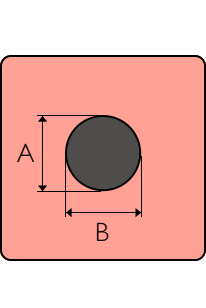
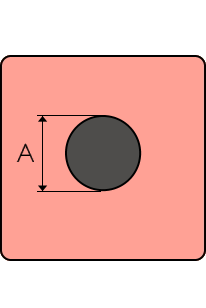
feat(profile-fields): profil başına A/B/S alanları (toplantı madde 22)
Lama A,B · boş kare A,S · boş dikdörtgen A,B,S · boş boru A,S · köşebent A,S ·
iki kollu köşebent A,B,S · dolu boru A · dolu kare A · IPN/HEB/UPN/T A,S.
Görünmeyen alan ekranda çıkmaz ve "0" tutulur (kontrol + kayıt + AI sorgusu değişmeden
çalışır). A/B/S ölçü görselleri yeni listeye göre yeniden üretildi.

Claude-Session: https://claude.ai/code/session_01Uvk3jDBtePorYdYPvnYHq8

Changed region(s): [[0.2913, 0.4968, 0.699, 0.789]]

diff --git a/client/desktop/src/renderer/constants/profileFields.ts b/client/desktop/src/renderer/constants/profileFields.ts
@@ -1,0 +1,50 @@
+// Profil başına ölçü alanları (07.10.2026 toplantısı, madde 22).
+// Görünmeyen alan ekranda çıkmaz ve 0 gönderilir ("bu profilde yok").
+// Backend hesabı sadece A'yı kullanır (piston hedefi R2 = Rarc − A − Rk, stage seçimi);
+// B ve S sadece kayıt + AI eşleştirme içindir — 0 kabul edilir.
+
+import { useBendingJobStore, type BendingProfileId } from '@/store/bendingJobStore'
+
+export type ProfileFieldKey = 'A' | 'B' | 'S'
+
+export const PROFILE_FIELDS: Record<BendingProfileId, ProfileFieldKey[]> = {
+  'i-single': ['A', 'B'],            // lama — 80 = A kenarı, 20 = B kenarı
+  'square-out': ['A', 'S'],          // boş kare
+  'square-in': ['A', 'B', 'S'],      // boş dikdörtgen
+  circle: ['A', 'S'],                // boş boru
+  'l-right': ['A', 'S'],             // köşebent
+  'l-left': ['A', 'B', 'S'],         // iki kollu köşebent (seçim ekranında en sağ alt)
+  'circle-filled': ['A'],            // dolu boru
+  'square-filled': ['A'],            // dolu kare
+  'i-bar': ['A', 'S'],               // IPN
+  'h-bar': ['A', 'S'],               // HEB
+  'c-channel': ['A', 'S'],           // UPN
+  't-bar': ['A', 'S'],               // T profil
+}
+
+const ALL: ProfileFieldKey[] = ['A', 'B', 'S']
+
+/** Seçili profilin görünen A/B/S alanları (profil seçilmemişse hepsi). */
+export function useVisibleProfileFields(): ProfileFieldKey[] {
+  const profileId = useBendingJobStore((s) => s.params.profileId)
+  return profileId ? PROFILE_FIELDS[profileId] : ALL
+}
+
+/** Görünmeyen A/B/S alanlarını "0" yapar — kontrol ve kayıt bu değerle çalışır. */
+export function fillHiddenProfileFields<T extends Record<ProfileFieldKey, string>>(
+  values: T,
+  visible: ProfileFieldKey[],
+): T {
+  let out = values
+  for (const k of ALL) {
+    if (!visible.includes(k) && values[k] !== '0') {
+      out = { ...out, [k]: '0' }
+    }
+  }
+  return out
+}
+
+/** Alan listesinden görünmeyen A/B/S'yi çıkarır (diğer alanlara dokunmaz). */
+export function filterProfileFieldList<K extends string>(fields: K[], visible: ProfileFieldKey[]): K[] {
+  return fields.filter((f) => !(ALL as string[]).includes(f) || visible.includes(f as ProfileFieldKey))
+}

diff --git a/client/desktop/src/renderer/pages/ArcBendingMeasurementsPage/ArcMeasurementForm.tsx b/client/desktop/src/renderer/pages/ArcBendingMeasurementsPage/ArcMeasurementForm.tsx
@@ -1,4 +1,5 @@
 import { useEffect, useState } from 'react'
+import { filterProfileFieldList, useVisibleProfileFields } from '@/constants/profileFields'
 import styles from './ArcMeasurementForm.module.css'
 import ArcInfoModal from './ArcInfoModal'
 import NumpadModal from '@/components/NumpadModal/NumpadModal'
@@ -195,6 +196,7 @@ export default function ArcMeasurementForm({
   stage,
 }: Props) {
   const profileImage = useProfileDimensionImage()
+  const visibleFields = useVisibleProfileFields()
   const methodImage = useMethodTileImage('arc', defaultMethodImage)
   const [openInfo, setOpenInfo] = useState<ArcMainFieldKey | ArcSegmentFieldKey | null>(null)
   const [numpadTarget, setNumpadTarget] = useState<NumpadTarget | null>(null)
@@ -395,7 +397,7 @@ export default function ArcMeasurementForm({
           <>
             {/* AŞAMA 1: A/B/S/H + P/G/LT (2-col grid) */}
             <div className={styles.inputGrid}>
-              <div className={styles.inputCol}>{MAIN_LEFT.map(renderMainField)}</div>
+              <div className={styles.inputCol}>{filterProfileFieldList(MAIN_LEFT, visibleFields).map(renderMainField)}</div>
               <div className={styles.inputCol}>{MAIN_RIGHT.map(renderMainField)}</div>
             </div>
 
@@ -408,8 +410,8 @@ export default function ArcMeasurementForm({
             {/* AŞAMA 2: Kompakt özet bant */}
             <div className={styles.summaryBar}>
               <span><b>A</b>={values.A || '—'}</span>
-              <span><b>B</b>={values.B || '—'}</span>
-              <span><b>S</b>={values.S || '—'}</span>
+              {visibleFields.includes('B') && <span><b>B</b>={values.B || '—'}</span>}
+              {visibleFields.includes('S') && <span><b>S</b>={values.S || '—'}</span>}
               <span><b>H</b>={values.H || '—'}</span>
               <span><b>P</b>={values.P || '—'}</span>
               <span><b>G</b>={values.G || '—'}</span>

diff --git a/client/desktop/src/renderer/pages/SivamaBendingMeasurementsPage/SivamaMeasurementForm.tsx b/client/desktop/src/renderer/pages/SivamaBendingMeasurementsPage/SivamaMeasurementForm.tsx
@@ -1,4 +1,5 @@
 import { useState } from 'react'
+import { filterProfileFieldList, useVisibleProfileFields } from '@/constants/profileFields'
 import styles from './SivamaMeasurementForm.module.css'
 import SivamaInfoModal from './SivamaInfoModal'
 import NumpadModal from '@/components/NumpadModal/NumpadModal'
@@ -80,6 +81,7 @@ interface Props {
 
 export default function SivamaMeasurementForm({ values, onChange, onReset }: Props) {
   const profileImage = useProfileDimensionImage()
+  const visibleFields = useVisibleProfileFields()
   const methodImage = useMethodTileImage('sivama', defaultMethodImage)
   const [openInfo, setOpenInfo]       = useState<SivamaFieldKey | null>(null)
   const [numpadField, setNumpadField] = useState<SivamaNumericKey | null>(null)
@@ -172,7 +174,7 @@ export default function SivamaMeasurementForm({ values, onChange, onReset }: Pro
       <div className={styles.inputSection}>
         <div className={styles.inputGrid}>
           <div className={styles.inputCol}>
-            {LEFT_FIELDS.map(renderNumericField)}
+            {filterProfileFieldList(LEFT_FIELDS, visibleFields).map(renderNumericField)}
           </div>
           <div className={styles.inputCol}>
             {RIGHT_FIELDS.map(renderRightField)}

diff --git a/client/desktop/src/renderer/pages/SpiralBendingMeasurementsPage/SpiralMeasurementForm.tsx b/client/desktop/src/renderer/pages/SpiralBendingMeasurementsPage/SpiralMeasurementForm.tsx
@@ -1,4 +1,5 @@
 import { useState } from 'react'
+import { filterProfileFieldList, useVisibleProfileFields } from '@/constants/profileFields'
 import styles from './SpiralMeasurementForm.module.css'
 import SpiralInfoModal from './SpiralInfoModal'
 import NumpadModal from '@/components/NumpadModal/NumpadModal'
@@ -74,6 +75,7 @@ interface Props {
 
 export default function SpiralMeasurementForm({ values, onChange, onReset }: Props) {
   const profileImage = useProfileDimensionImage()
+  const visibleFields = useVisibleProfileFields()
   const methodImage = useMethodTileImage('spiral', defaultMethodImage)
   const [openInfo, setOpenInfo]       = useState<SpiralFieldKey | null>(null)
   const [numpadField, setNumpadField] = useState<SpiralNumericKey | null>(null)
@@ -166,7 +168,7 @@ export default function SpiralMeasurementForm({ values, onChange, onReset }: Pro
       <div className={styles.inputSection}>
         <div className={styles.inputGrid}>
           <div className={styles.inputCol}>
-            {LEFT_FIELDS.map(renderNumericField)}
+            {filterProfileFieldList(LEFT_FIELDS, visibleFields).map(renderNumericField)}
           </div>
           <div className={styles.inputCol}>
             {RIGHT_FIELDS.map(renderRightField)}

diff --git a/client/desktop/src/renderer/pages/RingBendingMeasurementsPage/MeasurementForm.tsx b/client/desktop/src/renderer/pages/RingBendingMeasurementsPage/MeasurementForm.tsx
@@ -1,4 +1,5 @@
 import { useState } from 'react'
+import { filterProfileFieldList, useVisibleProfileFields } from '@/constants/profileFields'
 import styles from './MeasurementForm.module.css'
 import InfoModal from './InfoModal'
 import NumpadModal from '@/components/NumpadModal/NumpadModal'
@@ -71,6 +72,7 @@ interface Props {
 
 export default function MeasurementForm({ values, onChange, onReset }: Props) {
   const profileImage = useProfileDimensionImage()
+  const visibleFields = useVisibleProfileFields()
   const methodImage = useMethodTileImage('ring', defaultMethodImage)
   const [openInfo, setOpenInfo]     = useState<FieldKey | null>(null)
   const [numpadField, setNumpadField] = useState<FieldKey | null>(null)
@@ -124,7 +126,7 @@ export default function MeasurementForm({ values, onChange, onReset }: Props) {
       <div className={styles.inputSection}>
         <div className={styles.inputGrid}>
           <div className={styles.inputCol}>
-            {LEFT_FIELDS.map(renderField)}
+            {filterProfileFieldList(LEFT_FIELDS, visibleFields).map(renderField)}
           </div>
           <div className={styles.inputCol}>
             {RIGHT_FIELDS.map(renderField)}

diff --git a/client/desktop/src/renderer/pages/ArcBendingMeasurementsPage/ArcBendingMeasurementsPage.tsx b/client/desktop/src/renderer/pages/ArcBendingMeasurementsPage/ArcBendingMeasurementsPage.tsx
@@ -1,4 +1,5 @@
 import { useState } from 'react'
+import { fillHiddenProfileFields, useVisibleProfileFields } from '@/constants/profileFields'
 import { useNavigate } from 'react-router-dom'
 import { useBendingJobStore, type ArcSegmentParams } from '@/store/bendingJobStore'
 import PageHeader from '@/components/PageHeader/PageHeader'
@@ -102,7 +103,10 @@ export default function ArcBendingMeasurementsPage() {
   const navigate = useNavigate()
   const arcBending = useBendingJobStore((s) => s.params.arcBending)
   const setParams = useBendingJobStore((s) => s.setParams)
-  const [values, setValues] = useState<ArcMeasurementValues>(() => fromStore(arcBending))
+  // Profil başına A/B/S alanları — görünmeyenler her zaman "0" (constants/profileFields)
+  const visibleFields = useVisibleProfileFields()
+  const [values, setRawValues] = useState<ArcMeasurementValues>(() => fillHiddenProfileFields(fromStore(arcBending), visibleFields))
+  const setValues = (v: ArcMeasurementValues) => setRawValues(fillHiddenProfileFields(v, visibleFields))
   const [inputMode, setInputMode] = useState<ArcInputMode>('angle')
   const [stage, setStage] = useState<ArcFormStage>('main')
 

diff --git a/client/desktop/src/renderer/pages/RingBendingMeasurementsPage/RingBendingMeasurementsPage.tsx b/client/desktop/src/renderer/pages/RingBendingMeasurementsPage/RingBendingMeasurementsPage.tsx
@@ -1,4 +1,5 @@
 import { useState } from 'react'
+import { fillHiddenProfileFields, useVisibleProfileFields } from '@/constants/profileFields'
 import { useNavigate } from 'react-router-dom'
 import { useBendingJobStore } from '@/store/bendingJobStore'
 import { useSensors } from '@/hooks/useMachineState'
@@ -35,7 +36,10 @@ export default function RingBendingMeasurementsPage() {
   const navigate = useNavigate()
   const ringBending = useBendingJobStore((s) => s.params.ringBending)
   const setParams = useBendingJobStore((s) => s.setParams)
-  const [values, setValues] = useState<MeasurementValues>(() => fromStore(ringBending))
+  // Profil başına A/B/S alanları — görünmeyenler her zaman "0" (constants/profileFields)
+  const visibleFields = useVisibleProfileFields()
+  const [values, setRawValues] = useState<MeasurementValues>(() => fillHiddenProfileFields(fromStore(ringBending), visibleFields))
+  const setValues = (v: MeasurementValues) => setRawValues(fillHiddenProfileFields(v, visibleFields))
 
   // AI RECIPE FAZ 4B UI (2026-09-04) — İLERİ tıklanınca AI preview modal aç
   const sensors = useSensors()

diff --git a/client/desktop/src/renderer/pages/SivamaBendingMeasurementsPage/SivamaBendingMeasurementsPage.tsx b/client/desktop/src/renderer/pages/SivamaBendingMeasurementsPage/SivamaBendingMeasurementsPage.tsx
@@ -1,4 +1,5 @@
 import { useState } from 'react'
+import { fillHiddenProfileFields, useVisibleProfileFields } from '@/constants/profileFields'
 import { useNavigate } from 'react-router-dom'
 import { useBendingJobStore } from '@/store/bendingJobStore'
 import PageHeader from '@/components/PageHeader/PageHeader'
@@ -42,7 +43,10 @@ export default function SivamaBendingMeasurementsPage() {
   const navigate      = useNavigate()
   const sivamaBending = useBendingJobStore((s) => s.params.sivamaBending)
   const setParams     = useBendingJobStore((s) => s.setParams)
-  const [values, setValues] = useState<SivamaMeasurementValues>(() => fromStore(sivamaBending))
+  // Profil başına A/B/S alanları — görünmeyenler her zaman "0" (constants/profileFields)
+  const visibleFields = useVisibleProfileFields()
+  const [values, setRawValues] = useState<SivamaMeasurementValues>(() => fillHiddenProfileFields(fromStore(sivamaBending), visibleFields))
+  const setValues = (v: SivamaMeasurementValues) => setRawValues(fillHiddenProfileFields(v, visibleFields))
 
   function handleReset() {
     setValues({ ...EMPTY })

diff --git a/client/desktop/src/renderer/pages/SpiralBendingMeasurementsPage/SpiralBendingMeasurementsPage.tsx b/client/desktop/src/renderer/pages/SpiralBendingMeasurementsPage/SpiralBendingMeasurementsPage.tsx
@@ -1,4 +1,5 @@
 import { useState } from 'react'
+import { fillHiddenProfileFields, useVisibleProfileFields } from '@/constants/profileFields'
 import { useNavigate } from 'react-router-dom'
 import { useBendingJobStore } from '@/store/bendingJobStore'
 import PageHeader from '@/components/PageHeader/PageHeader'
@@ -40,7 +41,10 @@ export default function SpiralBendingMeasurementsPage() {
   const navigate     = useNavigate()
   const spiralBending = useBendingJobStore((s) => s.params.spiralBending)
   const setParams     = useBendingJobStore((s) => s.setParams)
-  const [values, setValues] = useState<SpiralMeasurementValues>(() => fromStore(spiralBending))
+  // Profil başına A/B/S alanları — görünmeyenler her zaman "0" (constants/profileFields)
+  const visibleFields = useVisibleProfileFields()
+  const [values, setRawValues] = useState<SpiralMeasurementValues>(() => fillHiddenProfileFields(fromStore(spiralBending), visibleFields))
+  const setValues = (v: SpiralMeasurementValues) => setRawValues(fillHiddenProfileFields(v, visibleFields))
 
   function handleReset() {
     setValues({ ...EMPTY })
